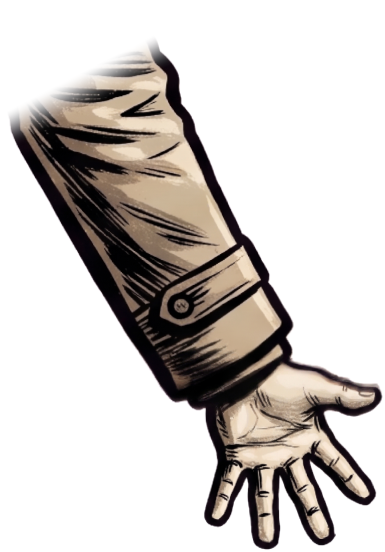
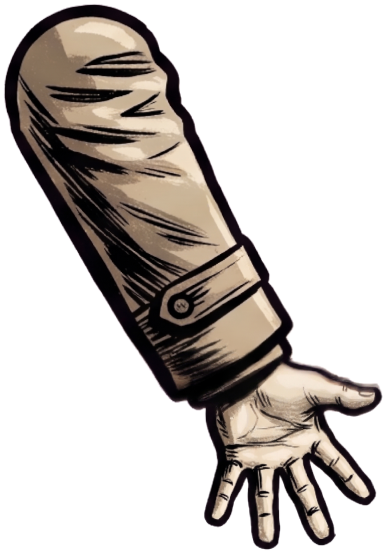
Body audit: far forearm inked, knee crook fill, high aim clears the face; --hide test flag; rule 41 (23)

Changed region(s): [[0.0, 0.0, 0.4364, 0.2464]]

diff --git a/.claude/skills/ashes-znalosti/SKILL.md b/.claude/skills/ashes-znalosti/SKILL.md
@@ -153,3 +153,4 @@ Covers what is in [[HANDOFF|HANDOFF.md]] up to 2026-11-16 (5). Exact current val
    (20) (user 25. 11.: "the gun is broken in his hand") at ease on a mocap figure the gun follows the FOREARM (angle - 0.3, clamped -1.1..1.35), never a fixed angle: a fixed muzzle-down angle on a raised fist reads as a broken wrist. (user 25. 11. later: "still wrong, no finger on the trigger, draw a reference") a one-hand gun is held by a DRAWN HAND: art/guns/<gun>_hand.png (art_src 364 1911, 365 revolver: bare hand, index on the trigger), the near forearm swaps to <dir>/farm_grip.png (fist cut off, gen/grip_cuff.py) and the hand sprite sits UNDER the cuff at cfg "grip_cuff" (fraction along the forearm), rotated to the gun angle. Never a bare gun pasted over a fist. Two pistols and enemies still use the old way.
    (21) (user 25. 11.: "the collar is an explosion again, and the neck") a collar piece cut from the torso and laid over the head/sleeve (cfg collar_*, its middle above the head anchor + 120 px) turns WITH THE HEAD about the head anchor by the neck angle = look minus the torso's DRAWN tilt (puppet.gd torso_tilt: the mocap torso leans more than `lean`; look - lean left Frank's collar tip over his ear in the run and over his face in the dive). Check heads close up (--test=gait --close, moves dive frames) for every figure with collars.
    (22) (user 25. 11.: "why does the elbow look like a puppet again") a forearm drawing must NOT start with an inked round cap: it draws a black ring across the upper arm at every bend. Fade it in at the elbow joint (gen/elbow_soft.py, inked source kept in art/_src/<figure>/) so the upper arm's rounded end is the elbow; erasing the ink of both caps instead left a pale blob. Check the near arm close up at aim/shot/aim-down.
+   (23) (user 25. 11.: "go through every limb and part, thoroughly") the AUDIT: `--test=moves` for each figure in 4 runs (--mvfrom=0/30/60/90, 115 poses), contact sheets 8x3, then zoom every suspect; `--hide=uarm_b,farm_b,legs,skirt,collar,...` (puppet.gd) hides parts to find which piece a fault belongs to. Found and fixed: (a) the near-forearm fade (22) must not reach the FAR forearm - folded behind the body it bared a flat cut on the upper arm (<dir>/farm_back.png = the inked original); (b) holes in a hard-bent knee were the pale crook band behind them lit by the back light -> band light_mask 1, width 0.2 m, plus a wedge filling the crook; every mocap figure needs cfg "pelvis" (trouser colour) for it; (c) aiming high the straight arm crossed the face -> the shoulder comes forward/up with the aim and the chin lifts. A light triangle between two legs in a split stride is real space, not a hole.

diff --git a/HANDOFF.md b/HANDOFF.md
@@ -623,3 +623,4 @@ Read `.claude/skills/ashes-znalosti/SKILL.md` first (stable rules + topic index,
 - (162) 25. 11. Gun grip (user: "still wrong, no finger on the trigger; have a reference drawn"): Gemini reference + art_src 364 (hand on a 1911) and 365 (hand on a snub revolver) -> art/guns/pistol_hand.png, revolver_hand.png (cut with char_cut). gen/grip_cuff.py cuts the fist off the forearm -> art/detective|eddie2/farm_grip.png. puppet.gd `_set_grip`/`_grip_ok`: cfg "grip_cuff" (Frank 0.88, Eddie 0.77) switches the near gun to the hand drawing, its wrist under the cuff; muzzle() uses the hand muzzle. Off for two pistols, rope, pipe, disarmed. Checked gait (run/walk), moves (aim, shot, reload, switch, jump, dive). TODO: mobsters/bosses and the second pistol in the far hand.
 - (163) 25. 11. Collar (user: "explosion again, and the neck"): Frank's collar_back (torso wing over the sleeve) stood over his ear running and over his face in the flight. puppet.gd: collar pieces near the neck rotate with the head about the head anchor by look - torso_tilt. Tried and dropped: cropping the wing (bare long neck + a cut mark), a second wing under the head (doubled). Checked Frank + Eddie gait close and moves dive frames. Bots not rerun for this (drawing only); the grip change before it passed all 21.
 - (164) 25. 11. Elbow (user: "puppet again"): Frank's farm.png/farm_open.png began with an inked cap = a black ring over the upper arm (also before today). gen/elbow_soft.py fades the forearm in at the joint (t -0.03..0.07); sources in art/_src/detective/; farm_grip.png regenerated from it. Tried and dropped: inpainting the ink of both caps (pale blurred ball). Rule 41 (22).
+- (165) 25. 11. Full body audit (user: "every limb, thoroughly"): 115 poses x Eddie + Frank viewed (sheets _shots/audit3). Fixes: Frank's far forearm back on the inked drawing (art/detective/farm_back.png), knee crook band darker/wider + crook wedge, Frank cfg "pelvis", high aim: shoulder forward/up + chin up. New test flag --hide=<parts>. Rule 41 (23). All 21 bots.
